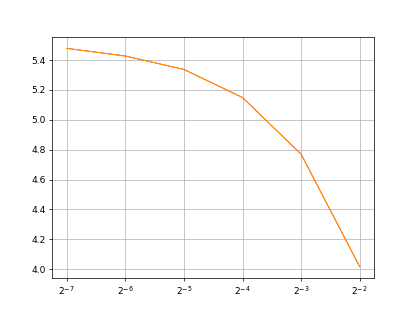
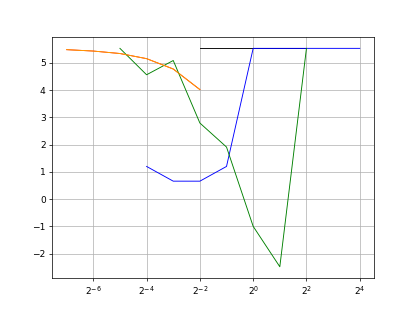
chapter 2 done

diff --git a/chap_02/figure.py b/chap_02/figure.py
@@ -72,7 +72,7 @@ def exercise_2_5(seed=None):
               "$\\alpha=0.1$": {"alpha": 0.1}}
     data = experiment(env, simple_bandit_algorithm, params, seed=seed,
                       n_run=1000, n_steps=10000, nr_parallel_processes=6)
-    plot(data, "plots/exercise_2_5.png")
+    plot(data, "plots/exercise_2_05.png")
 
 
 def figure_2_3(seed=None):
@@ -96,10 +96,10 @@ def figure_2_4(seed=None):
 def figure_2_5(seed=None):
     env = gym.make('k-armed-testbed-v0', k=10, stationary=True, loc=4)
     params = {
-        "b $\\alpha=0.1$": {"baseline": True, "alpha": 0.1},
-        "b $\\alpha=0.4$": {"baseline": True, "alpha": 0.4},
-        "nb $\\alpha=0.1$": {"baseline": False, "alpha": 0.1},
-        "nb $\\alpha=0.4$": {"baseline": False, "alpha": 0.4},
+        "b $\\alpha=0.1$": {"baseline": True, "alpha_h": 0.1},
+        "b $\\alpha=0.4$": {"baseline": True, "alpha_h": 0.4},
+        "nb $\\alpha=0.1$": {"baseline": False, "alpha_h": 0.1},
+        "nb $\\alpha=0.4$": {"baseline": False, "alpha_h": 0.4},
         }
     data = experiment(env, gradient_bandit_algorithm, params, n_run=2000,
                       seed=seed, stationary=True)
@@ -172,8 +172,8 @@ def figure_2_6(out_path, seed=None, n_run=2000, nr_parallel_processes=6,
 
     for i, alpha in enumerate(alphas):
         seeds = rng.integers(100000, size=n_run)
-        # func params: env, n_steps, alpha, baseline, stationary, seed
-        params = [(env, n_steps, alpha, True, True, seed) for seed in seeds]
+        # func params: env, n_steps, alpha_h, baseline, stationary, alpha_r, seed
+        params = [(env, n_steps, alpha, True, True, None, seed) for seed in seeds]
         with Pool(processes=nr_parallel_processes) as pool:
             results = pool.starmap(gradient_bandit_algorithm, params)
 
@@ -204,78 +204,73 @@ def exercise_2_11(
 
     fig, ax = plt.subplots()
 
-    # # 1. epsilon-greedy
-    # epsilons = [2 ** p for p in range(-7, -1)]
-    # mean_rewards = np.empty(len(epsilons))
+    # 1. epsilon-greedy
+    epsilons = [2 ** p for p in range(-7, -1)]
+    mean_rewards = np.empty(len(epsilons))
 
-    # for i, eps in enumerate(epsilons):
-    #     # func params: env, n_steps, alpha, init_value, eps, ucb, c, seed
-    #     res = simple_bandit_algorithm(env, n_steps, None, 0, eps, False, 1, seed)
-    #     mean_rewards[i] = get_stat(res)
+    for i, eps in enumerate(epsilons):
+        # func params: env, n_steps, alpha, init_value, eps, ucb, c, seed
+        res = simple_bandit_algorithm(env, n_steps, None, 0, eps, False, 1, seed)
+        mean_rewards[i] = get_stat(res)
 
-    # ax.plot(epsilons, mean_rewards, c="red", lw=1)
+    ax.plot(epsilons, mean_rewards, c="red", lw=1)
 
-    # # 2. greedy with optimistic initialization
-    # init_values = [2 ** p for p in range(-2, 3)]
-    # mean_rewards = np.empty(len(init_values))
+    # 2. greedy with optimistic initialization
+    init_values = [2 ** p for p in range(-2, 3)]
+    mean_rewards = np.empty(len(init_values))
 
-    # for i, v in enumerate(init_values):
-    #     # func params: env, n_steps, alpha, init_value, eps, ucb, c, seed
-    #     res = simple_bandit_algorithm(env, n_steps, 0.1, v, 0, False, 1, seed)
-    #     mean_rewards[i] = get_stat(res)
+    for i, v in enumerate(init_values):
+        # func params: env, n_steps, alpha, init_value, eps, ucb, c, seed
+        res = simple_bandit_algorithm(env, n_steps, 0.1, v, 0, False, 1, seed)
+        mean_rewards[i] = get_stat(res)
 
-    # ax.plot(init_values, mean_rewards, c="black", lw=1)
+    ax.plot(init_values, mean_rewards, c="black", lw=1)
 
-    # # 3. UCB
-    # cs = [2 ** p for p in range(-4, 5)]
-    # mean_rewards = np.empty(len(cs))
+    # 3. UCB
+    cs = [2 ** p for p in range(-4, 5)]
+    mean_rewards = np.empty(len(cs))
 
-    # for i, c in enumerate(cs):
-    #     # func params: env, n_steps, alpha, init_value, eps, ucb, c, seed
-    #     res = simple_bandit_algorithm(env, n_steps, None, 0, 0, True, c, seed)
-    #     mean_rewards[i] = get_stat(res)
+    for i, c in enumerate(cs):
+        # func params: env, n_steps, alpha, init_value, eps, ucb, c, seed
+        res = simple_bandit_algorithm(env, n_steps, None, 0, 0, True, c, seed)
+        mean_rewards[i] = get_stat(res)
 
-    # ax.plot(cs, mean_rewards, c="blue", lw=1)
+    ax.plot(cs, mean_rewards, c="blue", lw=1)
 
     # 4. gradient bandit
     alphas = [2 ** p for p in range(-5, 3)]
     mean_rewards = np.empty(len(alphas))
 
     for i, alpha in enumerate(alphas):
-        # func params: env, n_steps, alpha, baseline, stationary, seed
-        res = gradient_bandit_algorithm(env, n_steps, alpha, True, False, seed)
+        # func params: env, n_steps, alpha_h, baseline, stationary, alpha_r, seed
+        res = gradient_bandit_algorithm(env, n_steps, alpha, True, True, None, seed)
         mean_rewards[i] = get_stat(res)
-
-        res_5 = gradient_bandit_algorithm(
-            env, seed=seed, alpha=0.4, stationary=False, baseline=True)
-
-    return alphas, mean_rewards
 
     ax.plot(alphas, mean_rewards, c="green", lw=1)
 
-    # # 5. constant step (alpha = 0.1) epsilon-greedy
-    # epsilons = [2 ** p for p in range(-7, -1)]
-    # mean_rewards = np.empty(len(epsilons))
+    # 5. constant step (alpha = 0.1) epsilon-greedy
+    epsilons = [2 ** p for p in range(-7, -1)]
+    mean_rewards = np.empty(len(epsilons))
 
-    # for i, eps in enumerate(epsilons):
-    #     # func params: env, n_steps, alpha, init_value, eps, ucb, c, seed
-    #     res = simple_bandit_algorithm(env, n_steps, 0.1, 0, eps, False, 1, seed)
-    #     mean_rewards[i] = get_stat(res)
+    for i, eps in enumerate(epsilons):
+        # func params: env, n_steps, alpha, init_value, eps, ucb, c, seed
+        res = simple_bandit_algorithm(env, n_steps, 0.1, 0, eps, False, 1, seed)
+        mean_rewards[i] = get_stat(res)
 
-    # ax.plot(epsilons, mean_rewards, c="orange", lw=1)
+    ax.plot(epsilons, mean_rewards, c="orange", lw=1)
 
-    # xticks = [2 ** p for p in range(-7, 3)]
-    # ax.set_xticks(xticks)
+    xticks = [2 ** p for p in range(-7, 3)]
+    ax.set_xticks(xticks)
     ax.set_xscale('log', base=2)
     ax.grid()
     plt.savefig(out_path, dpi=dpi)
 
 
 if __name__ == '__main__':
-    # figure_2_2(12345)
-    # exercise_2_5(12345)
-    # figure_2_3(12345)
-    # figure_2_4(12345)
-    # figure_2_5(12345)
-    # figure_2_6("plots/figure_2_6.png", seed=12345)
-    data = exercise_2_11("plots/exercise_2_11.png", seed=12345)
+    figure_2_2(12345)
+    exercise_2_5(12345)
+    figure_2_3(12345)
+    figure_2_4(12345)
+    figure_2_5(12345)
+    figure_2_6("plots/figure_2_6.png", seed=12345)
+    exercise_2_11("plots/exercise_2_11.png", seed=12345)

diff --git a/chap_02/algorithm.py b/chap_02/algorithm.py
@@ -74,14 +74,14 @@ def simple_bandit_algorithm(
 
 class AgentGradientBandit:
 
-    def __init__(self, env: gym.Env, seed=None, alpha: float | None = None,
-                 baseline=True, stationary=True, alpha_1=0.1):
+    def __init__(self, env: gym.Env, seed=None, alpha_h: float | None = None,
+                 baseline=True, stationary=True, alpha_r=0.1):
         self.env = env
         self.rng = np.random.default_rng(seed)
-        self.alpha = alpha
+        self.alpha = alpha_h
         self.baseline = baseline
         self.stationary = stationary
-        self.alpha_1 = alpha_1
+        self.alpha_r = alpha_r
 
         self.R = 0  # baseline: mean of rewards
         self.N = 0  # number of action being visited
@@ -109,18 +109,18 @@ class AgentGradientBandit:
         if self.stationary:
             self.R += (r - self.R) / self.N
         else:
-            self.R += self.alpha_1 * (r - self.R)
+            self.R += self.alpha_r * (r - self.R)
 
 
 def gradient_bandit_algorithm(
-        env: gym.Env, n_steps=1000, alpha=None, baseline=True, stationary=True,
-        seed=12345,):
+        env: gym.Env, n_steps=1000, alpha_h=0.1, baseline=True,
+        stationary=True, alpha_r=0.1, seed=12345,):
     res = {"reward": list(), "opt_act": list()}
 
     rng = np.random.default_rng(seed)
     agent = AgentGradientBandit(
-        env, seed=rng.integers(100000), alpha=alpha, baseline=baseline,
-        stationary=stationary)
+        env, seed=rng.integers(100000), alpha_h=alpha_h, baseline=baseline,
+        stationary=stationary, alpha_r=alpha_r)
     _, info = env.reset(seed=rng.integers(100000))
     for step in range(1, n_steps + 1):
         a = agent.get_action()
@@ -148,8 +148,10 @@ if __name__ == '__main__':
 
     env = gym.make('k-armed-testbed-v0', k=4, loc=4, stationary=True)
     res_4 = gradient_bandit_algorithm(
-        env, seed=seed, alpha=0.4, stationary=True, baseline=True)
+        env, seed=seed, alpha_h=0.4, stationary=True, baseline=True)
 
+    # !!! This setting has problem and not solved yet
     env = gym.make('k-armed-testbed-v0', k=4, loc=4, stationary=False)
     res_5 = gradient_bandit_algorithm(
-        env, seed=seed, alpha=0.4, stationary=False, baseline=True)
+        env, seed=seed, alpha_h=0.4, stationary=False, baseline=True,
+        alpha_r=0.1)
